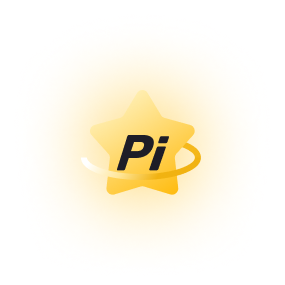
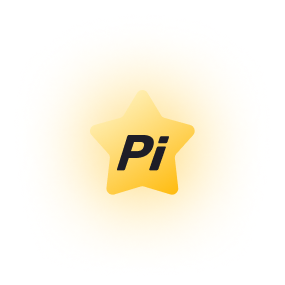
Add Pi badge ring image and update UserProfileScreen logic to conditionally display badge based on rating

Changed region(s): [[0.5333, 0.5053, 0.7018, 0.6456], [0.3649, 0.5895, 0.4772, 0.6456], [0.2807, 0.5333, 0.3368, 0.6175]]

diff --git a/screens/UserProfileScreen.js b/screens/UserProfileScreen.js
@@ -46,6 +46,7 @@ const SMART_BTN_SIZE = Math.floor((SCREEN_WIDTH - 48 - 10) / 2); // 2 cols, padd
 const bundledImg = require('../assets/image-7.png');
 /** Pi badge: always bundle — web `{ uri: origin + '/pi-badge.png' }` often 404s or breaks on subpaths. */
 const piBadgeSource = require('../assets/pi-badge.png');
+const piBadgeSourceRing = require('../assets/pi-badge-ring.png');
 const logoPiAi = require('../assets/paiailogo.png');
 
 const isWeb = Platform.OS === 'web';
@@ -1007,7 +1008,7 @@ const UserProfileScreen = ({
       <View style={styles.lastAdPiBadge}>
         <Text style={styles.lastAdPiText}>{String(displayPiRating)}</Text>
         <Image
-          source={piBadgeSource}
+          source={displayPiRating > 4 ? piBadgeSourceRing : piBadgeSource}
           style={styles.lastAdPiBadgeImage}
           resizeMode="cover"
         />
